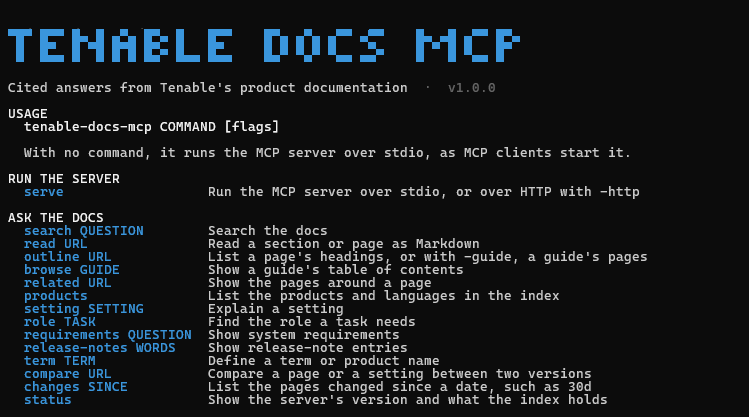
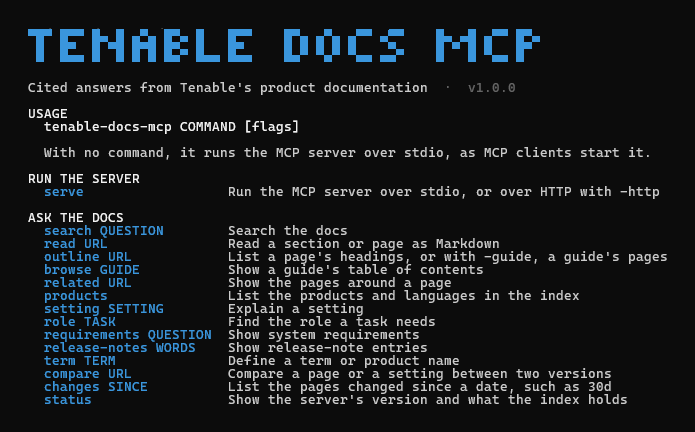
Centered the help screenshots
They're cropped to the help's text, with the same margin on every side,
instead of a narrow one on the left and a wide one on the right.

diff --git a/README.md b/README.md
@@ -1,11 +1,11 @@
 # Tenable Docs MCP
 
-<img src="docs/images/help-top.png" alt="The top of tenable-docs-mcp's help: the Tenable Docs MCP wordmark, the tagline &quot;Cited answers from Tenable's product documentation&quot; with version v1.0.0, and the commands for asking the docs, such as search, read, setting, role, requirements, and release-notes." width="749">
+<img src="docs/images/help-top.png" alt="The top of tenable-docs-mcp's help: the Tenable Docs MCP wordmark, the tagline &quot;Cited answers from Tenable's product documentation&quot; with version v1.0.0, and the commands for asking the docs, such as search, read, setting, role, requirements, and release-notes." width="695">
 
 <details>
 <summary>The full help</summary>
 
-<img src="docs/images/help.png" alt="The full help of tenable-docs-mcp v1.0.0: the commands for running the server, asking the docs, setting up and checking, recorded questions, and the index, followed by the flags, the environment variables, and the exit status." width="749">
+<img src="docs/images/help.png" alt="The full help of tenable-docs-mcp v1.0.0: the commands for running the server, asking the docs, setting up and checking, recorded questions, and the index, followed by the flags, the environment variables, and the exit status." width="695">
 
 </details>
 
